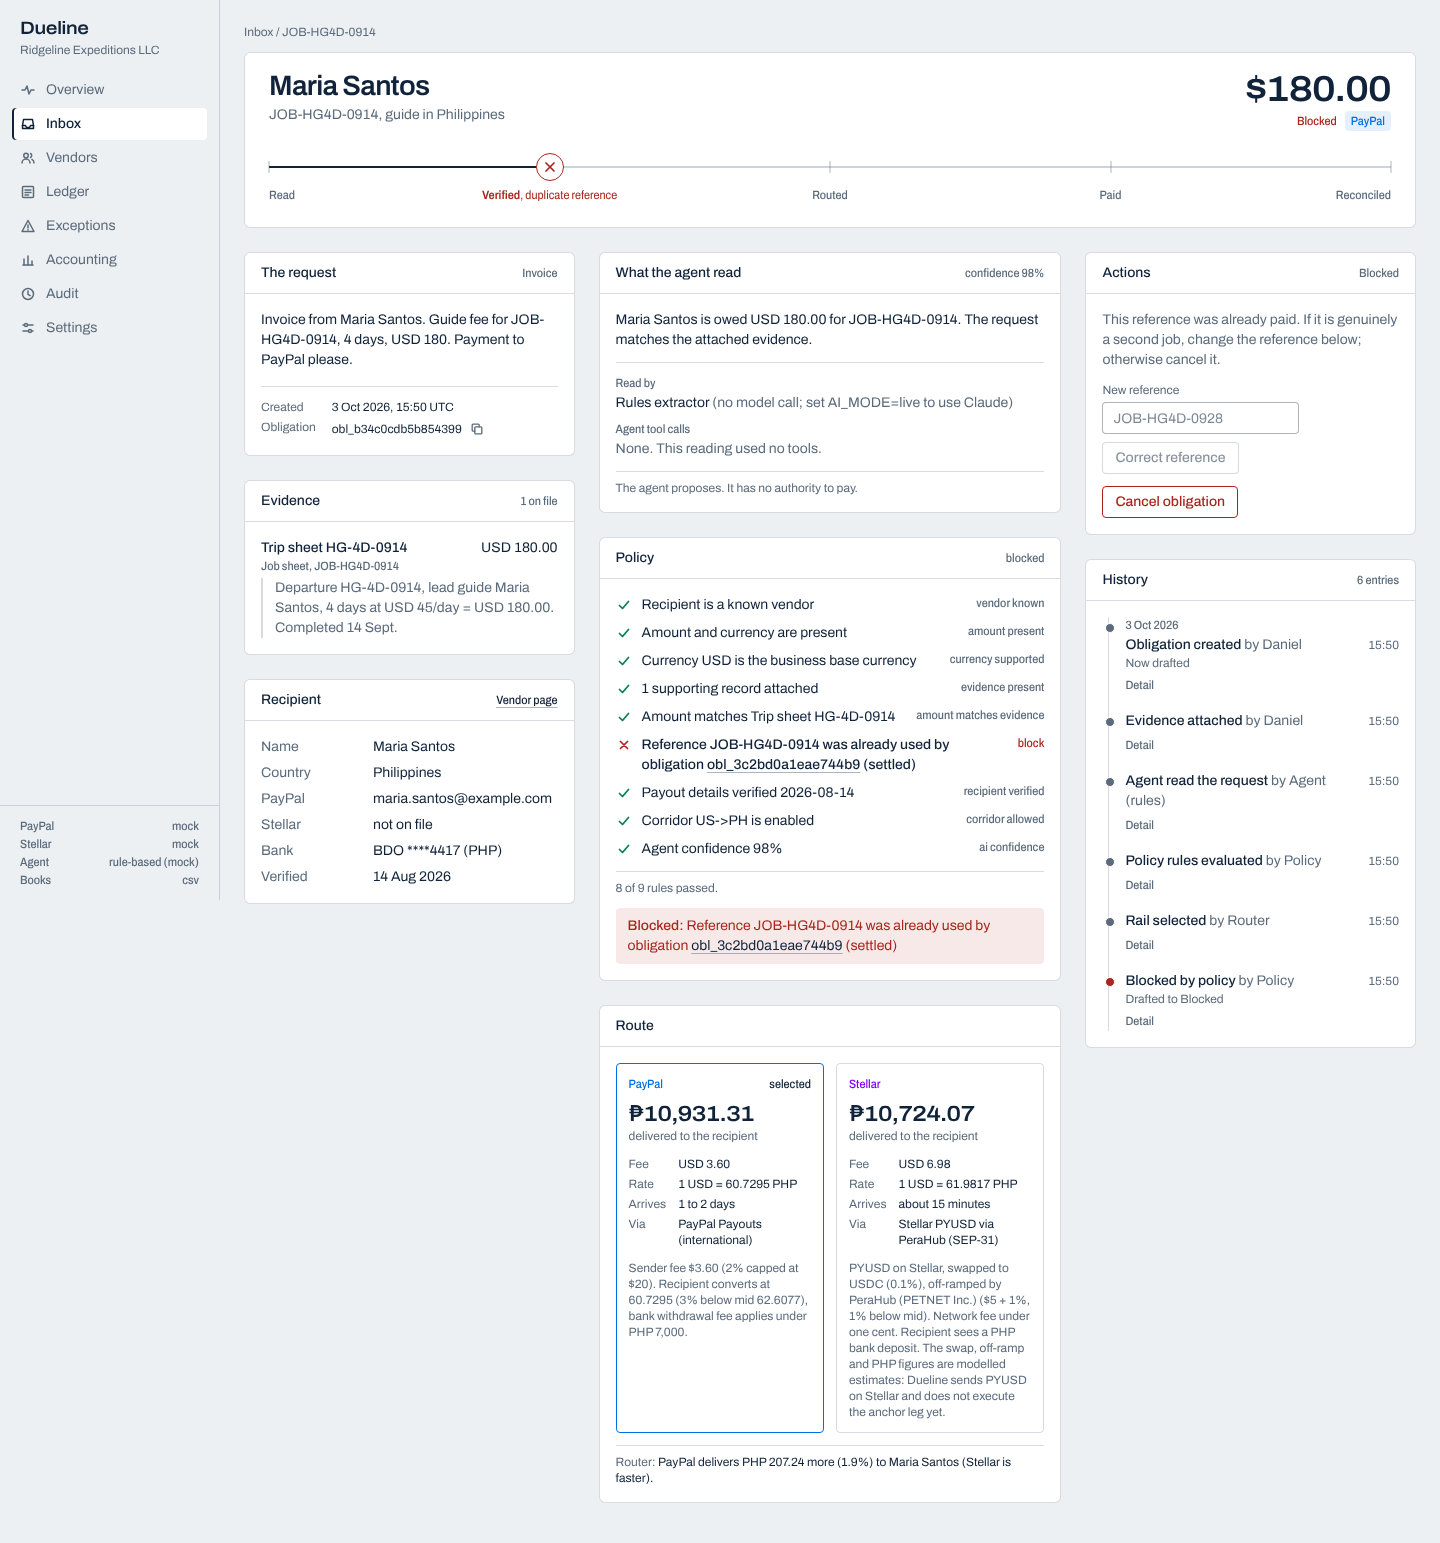
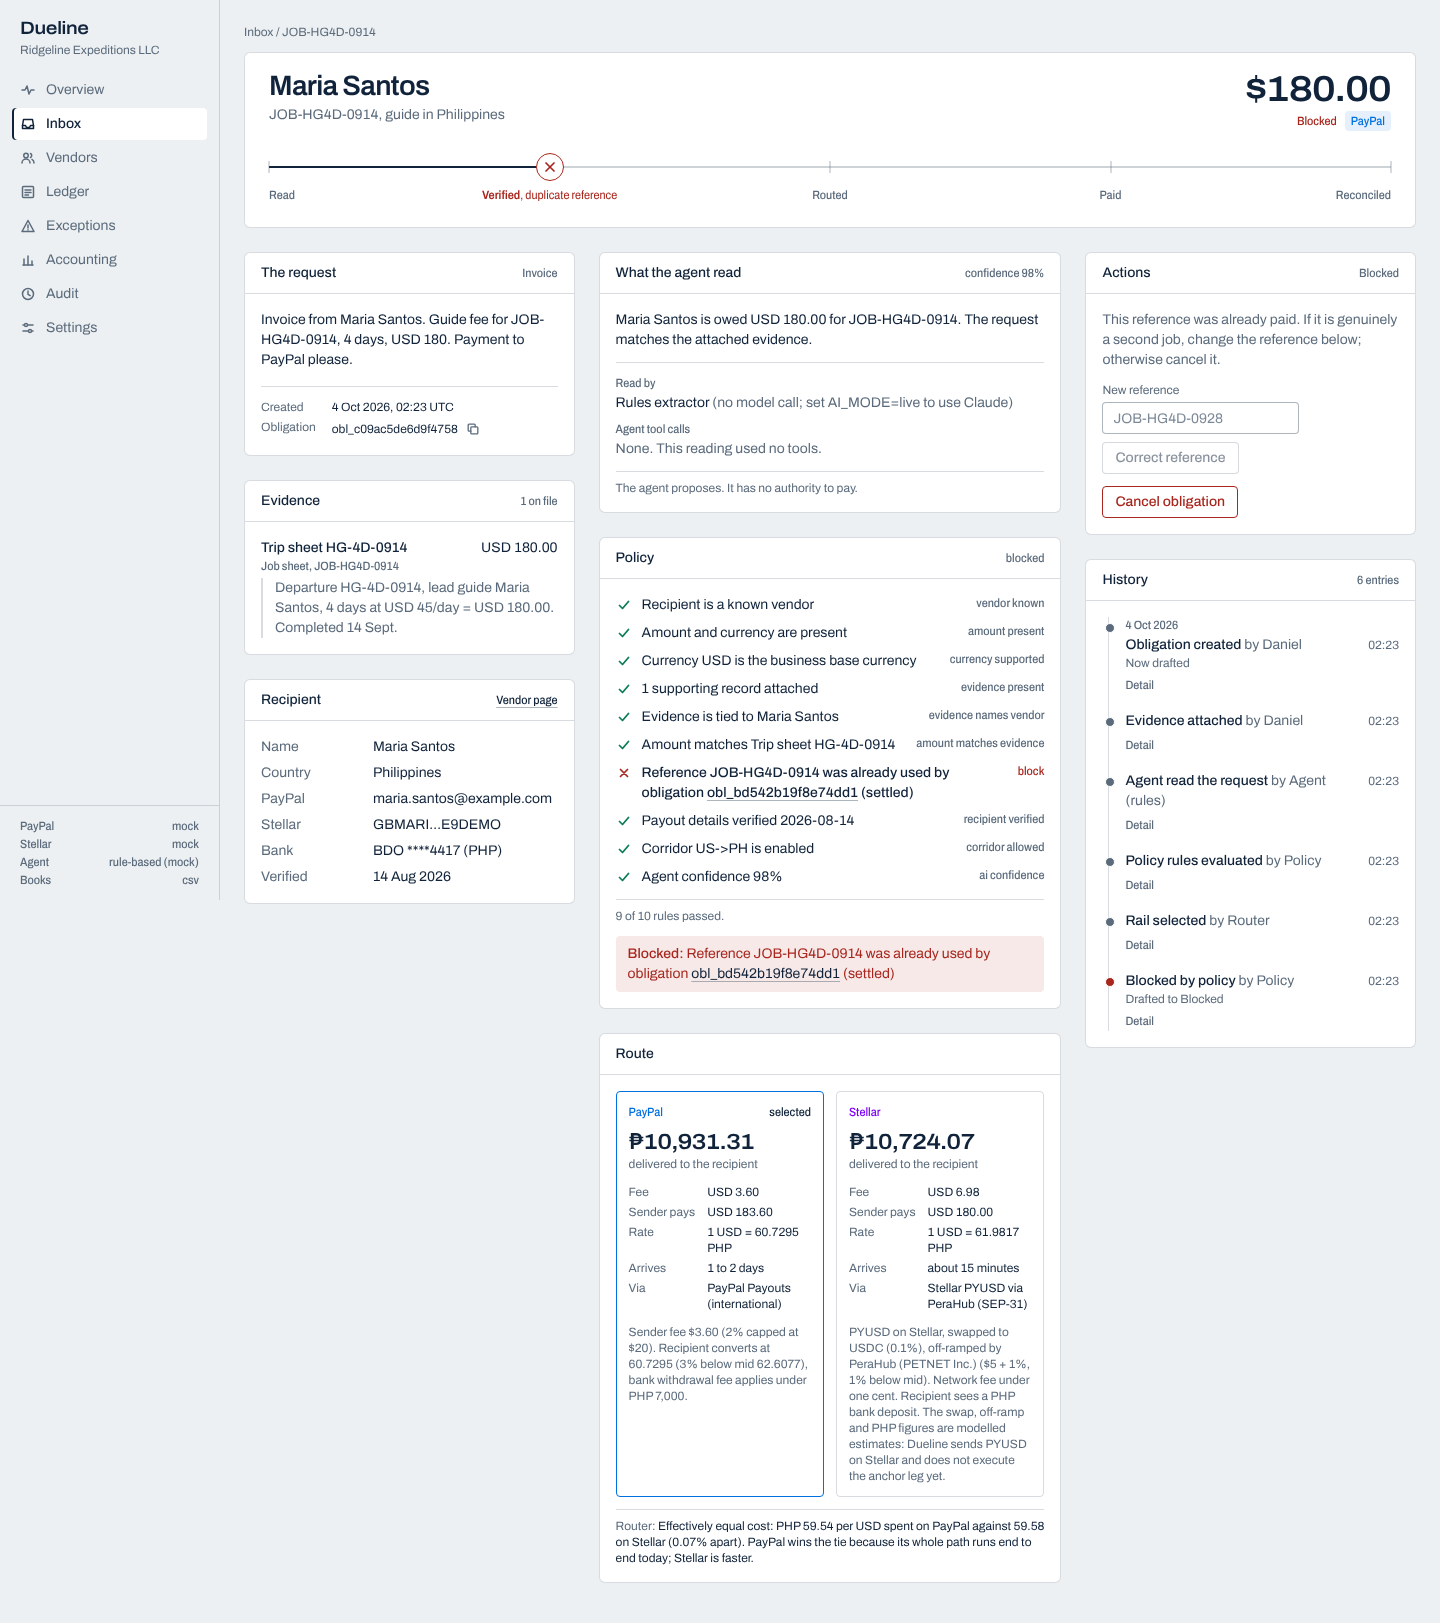
Video script opening, two cuts, Devpost and README claims aligned, screenshots regenerated, handoff updated
Claude-Session: https://claude.ai/code/session_01MTjiEbPDzj6LCPphPSyj3U

diff --git a/README.md b/README.md
@@ -2,7 +2,7 @@
 
 **Verified supplier payments, routed and reconciled automatically.**
 
-Dueline is an AI payables operations layer for small businesses that pay a distributed roster of contractors and suppliers, often across borders. It reads messy payment requests, works out who is owed what, refuses the ones that are wrong, picks the cheaper or faster rail between PayPal Payouts and Stellar PYUSD, pays, and lands every settlement in an accounting-ready export.
+Dueline is an AI payables operations layer for small businesses that pay a distributed roster of contractors and suppliers, often across borders. It reads payment requests as they arrive (a pasted message, a PDF invoice or job sheet read from its text, a photo read by Claude when a key is set), works out who is owed what, refuses the ones that are wrong, picks the cheaper or faster rail between PayPal Payouts and Stellar PYUSD, pays, and lands every settlement in an accounting-ready export.
 
 Built for the PayPal AI Hackathon (Nov 2026) and submitted to Stellar Community Fund #46.
 
@@ -22,7 +22,7 @@ Dueline puts five fixed stations between "someone says we owe this" and "it is i
 
 ## Honest status
 
-Everything runs end to end in mock mode, and that is what the demo and the tests exercise. The policy engine, state machine, routing rule, orchestrator and accounting export are proven by 130 tests and a deterministic replay. The PayPal Payouts adapter, the Stellar PYUSD adapter and the Claude agent with PayPal Agent Toolkit tools are written against the real SDKs and type-checked, but have not yet made a live call: the build environment had no network egress. By default the "agent" is a rule-based extractor, not Claude. Duplicate detection runs against Dueline's own ledger, not PayPal's history. Details in "Honesty" below, and the steps to go live are in `HUMAN_ACTION_QUEUE.md`.
+Everything runs end to end in mock mode, and that is what the demo and the tests exercise. The policy engine, state machine, routing rule, orchestrator and accounting export are proven by 142 tests and a deterministic replay. The PayPal Payouts adapter, the Stellar PYUSD adapter and the Claude agent with PayPal Agent Toolkit tools are written against the real SDKs and type-checked, but have not yet made a live call: the build environment had no network egress. By default the "agent" is a rule-based extractor, not Claude. Duplicate detection runs against Dueline's own ledger, not PayPal's history. Details in "Honesty" below, and the steps to go live are in `HUMAN_ACTION_QUEUE.md`.
 
 ## The demo story
 
@@ -31,7 +31,7 @@ Ridgeline Expeditions LLC, a US tour operator, has four open obligations.
 | # | Obligation | What happens | Why |
 |---|---|---|---|
 | 1 | Phuong Transport, INV-2026-0152, requests USD 960 | **Blocked** | The trip sheet says 4 vehicle-days x USD 200 = USD 800. The request is USD 160 over. Operator can correct to USD 800 and it re-enters the flow. |
-| 2 | Maria Santos, JOB-HG4D-0914 | **Blocked** | The reference was settled 17 days earlier. Duplicate. |
+| 2 | Maria Santos, JOB-HG4D-0914 | **Blocked** | The reference was settled 17 days earlier. Duplicate. The check also matches trip and job identifiers inside the text and evidence, so the same job re-invoiced under a new number is blocked too, and a bare same-amount invoice is held for a person. |
 | 3 | Maria Santos, JOB-HG4D-0921, USD 180 | **Auto-approved, paid via PayPal** | Under the USD 250 auto-execute threshold, evidence matches. At this size the two rails are within 0.1% per dollar spent (PHP 59.54 vs 59.58), so the tie goes to PayPal. |
 | 4 | Ana Reyes, JOB-PAL3D-0927, USD 750 | **Needs approval, paid via Stellar** | Above threshold, so a human approves. Stellar delivers about 2% more PHP per dollar spent and settles in about 15 minutes instead of 1 to 2 days. Ana asked for the faster rail. Explorer link in the settlement details. |
 
@@ -156,7 +156,7 @@ The build environment for this submission could not reach PayPal sandbox or Stel
     npm run lint
     npm run build
 
-130 tests in 10 files pass as of this commit. The story test (`src/lib/engine/story.test.ts`) runs the full demo through the orchestrator in mock mode and asserts each outcome.
+142 tests in 13 files pass as of this commit. The story test (`src/lib/engine/story.test.ts`) runs the full demo through the orchestrator in mock mode and asserts each outcome.
 
 ## Project layout
 
@@ -177,7 +177,7 @@ The build environment for this submission could not reach PayPal sandbox or Stel
 
 **What is mock.** Both rail adapters in `RAIL_MODE=mock`. The PayPal batch ids and Stellar hashes in the replay are generated locally. Fee and FX figures come from a published-fee model (`src/lib/rails/quoteModel.ts`, sourced in `docs/CORRIDOR_BENCHMARK.md`), not from live quotes. The AI in `AI_MODE=mock` is a rule-based extractor, not Claude. The Xero adapter maps records but does not push; OAuth is not wired. The Stellar anchor leg (SEP-31 to PeraHub) is modelled, not integrated; on testnet the Stellar adapter pays PYUSD to the vendor's wallet directly.
 
-**What is proven.** The policy engine, state machine, routing rule, orchestrator and accounting export, by tests and by the deterministic replay. The PayPal adapter builds a correct Payouts request with idempotency headers and the webhook receiver verifies signatures in live mode (both type-checked, not yet run against sandbox). The Stellar adapter builds, signs and submits a PYUSD payment with a memo-based idempotency check (type-checked, not yet run against testnet). The Claude agent loop with PayPal Agent Toolkit tools filtered to read-only (type-checked, not yet run against the API).
+**What is proven.** The policy engine, state machine, routing rule, orchestrator, document reader (PDF text layer) and accounting export, by tests and by the deterministic replay. The PayPal adapter builds a correct Payouts request with idempotency headers and the webhook receiver verifies signatures in live mode (both type-checked, not yet run against sandbox). The Stellar adapter builds, signs and submits a PYUSD payment with a memo-based idempotency check (type-checked, not yet run against testnet). The Claude agent loop with PayPal Agent Toolkit tools filtered to read-only (type-checked, not yet run against the API).
 
 **Safety review.** The money path (orchestrator, both rail adapters, webhook, policy) went through a line-by-line audit before any live credential was allowed near it. It found real problems, among them a retry that could mint a fresh idempotency key after an ambiguous failure, an unvalidated amend patch, and a silent fall-back to mock rails in live mode. All are fixed and covered by tests (`src/lib/engine/safety.test.ts` and the rail tests): ambiguous outcomes now stay "unknown" and block a second payment until reconciled, state changes are compare-and-swap inside a transaction, approvers are counted by distinct person, payout destinations are pinned at approval, and live mode fails closed. Known gaps: no fee-bump handling, no SEP-29 memo or trustline pre-check, no role-based access control, the anchor leg is not built, and the agent shares a PayPal app with Payouts scope (use a separate read-only app).
 

diff --git a/docs/VIDEO_SCRIPT.md b/docs/VIDEO_SCRIPT.md
@@ -8,10 +8,10 @@ Pace: speak plainly, one idea per sentence. No music under the voiceover; a quie
 
 | Time | On screen | Action | Voiceover |
 |---|---|---|---|
-| 0:00 to 0:08 | Black card, then the Dueline wordmark fades to the Overview page | None | Small businesses that pay guides, drivers and suppliers across borders check every request by hand, pay from a PayPal tab, and still pay duplicates and inflated invoices. |
-| 0:08 to 0:18 | Overview `/`. Cursor rests on the shared due line hero. | Slowly move the cursor across the five stations | Dueline draws every payment on one line: read, verified, routed, paid, reconciled. An AI agent reads. A deterministic policy decides. The rails pay. The books fill themselves. The agent is Claude when an API key is set and a rules extractor otherwise; the footer shows which is running. Four obligations are open this morning. |
+| 0:00 to 0:08 | Full-screen crop of the Phuong chat message on the obligation page: "Hey can you pay Phuong Transport INV-2026-0152 today? ... total $960. He needs it urgently." | None, hold the crop | "Pay Phuong nine sixty today, he needs it for fuel." I run a tour company and I get this message every week. This one is one hundred and sixty dollars wrong. |
+| 0:08 to 0:18 | Cut to Overview `/`. Cursor rests on the shared due line hero. | Slowly move the cursor across the five stations | Every payment travels one line: read, verified, routed, paid, reconciled. Claude reads the request. It cannot pay. A fixed set of rules decides, and this morning two of four requests are about to fail them. |
 | 0:18 to 0:26 | Overview, "Needs you" list | Hover the Phuong Transport row | The first one is a chat message: pay Phuong Transport nine hundred and sixty dollars, he needs it urgently. |
-| 0:26 to 0:48 | Obligation page `/obligations/<phuong>` | Click the row. Let the page sit. Point at the raw request, then the trip sheet excerpt, then the red rule row "Requested USD 960.00 but Trip sheet says USD 800.00". | The agent read the request and the two attached records. The contract says two hundred dollars a day. The trip sheet says four days. Policy compared the request to the evidence and blocked it: one hundred and sixty dollars over. The line is broken at verified, and it says why. |
+| 0:26 to 0:48 | Obligation page `/obligations/<phuong>` | Click the row. Let the page sit. Point at the raw request, then the trip sheet excerpt, then the "Agent tool calls" list, then the red rule row "Requested USD 960.00 but Trip sheet says USD 800.00". | Claude read the request and the two attached records, and it shows its work: the tools it called are listed on the page. The contract says two hundred dollars a day. The trip sheet says four days. Policy compared the request to the evidence and blocked it: one hundred and sixty dollars over. The line is broken at verified, and it says why. |
 | 0:48 to 0:56 | Same page, action panel | Hover "Correct to USD 800.00", do not click | The operator can correct it to eight hundred and it re-enters the flow. Nothing left the account. |
 | 0:56 to 1:04 | Back to Overview, then click the Exceptions link in the hero break, land on `/exceptions` | Click | The second one looks fine. Maria Santos, a job sheet, the right amount. |
 | 1:04 to 1:20 | Obligation page `/obligations/<maria 0914>` | Click the JOB-HG4D-0914 row. Point at the "Reference JOB-HG4D-0914 was already used" rule row, then at the linked settled obligation | Except that reference was already settled seventeen days ago in Dueline's own ledger. Policy found the duplicate and blocked it. Two errors caught, three hundred and forty dollars kept. |
@@ -21,7 +21,16 @@ Pace: speak plainly, one idea per sentence. No music under the voiceover; a quie
 | 2:24 to 2:36 | `/audit` | Scroll slowly | Every step is in one audit log: what the agent read, which rule fired, who approved, which rail paid, with the idempotency key. The agent never had spending authority. Policy is a pure function. Execution re-runs it before touching a rail. |
 | 2:36 to 2:45 | Overview `/`, the due line with two dots at reconciled and two breaks. Hold. Fade to the wordmark and one line of text. | Hold on the hero, then cut to a closing card: "2 settled. 2 errors prevented. 2 records exported." | Two settled, two errors prevented, two records exported. Dueline. Verified supplier payments, routed and reconciled automatically. |
 
-If recording in mock mode, add one sentence at 2:30: "This run is in mock mode; the sidebar shows which rails are live."
+Record in live mode (PayPal sandbox, Stellar testnet, Claude). Then there are no disclaimers to speak and the sidebar footer reads sandbox/testnet/claude on its own. If you must record in mock mode, say so once at 2:30 and nowhere else.
+
+## Two cuts from one take
+
+- **Hackathon cut (under 3:00):** as above, but trim the Ana shot (1:40 to 2:12) to about 15 seconds: approve, pay, settled, explorer link. Judges want to see PayPal and Claude; Stellar is the second rail, not the story.
+- **SCF cut:** the same footage with the full Ana shot, the explorer tab held for three seconds, and a closing line about the anchor leg being the funded work.
+
+## The 20-second insert that matters most
+
+After obligation 3 pays in live mode, switch to the PayPal sandbox dashboard and show the payout batch id that Dueline printed. Hold for three seconds. This single shot answers "has a real PayPal call ever succeeded".
 
 ## Closing card text
 

diff --git a/docs/MONDAY_HANDOFF.md b/docs/MONDAY_HANDOFF.md
@@ -7,7 +7,7 @@ Written Saturday 3 Oct 2026 night, updated through the weekend. Everything below
 Dueline, an AI payables ops layer: it reads a payment request, checks it against the evidence, blocks mistakes, routes over PayPal or Stellar PYUSD, pays, and writes an accounting record. Runs fully offline in mock mode.
 
 - Repo: local git on `main`, three commits, MIT licence. No GitHub remote exists yet (see H3), so a git bundle and a source zip were sent to you in chat.
-- 130 tests pass (policy, routing, state machine, end-to-end story, both rail adapters against fakes, webhook, auth). Typecheck, lint and production build are clean.
+- 142 tests pass (policy, routing, state machine, end-to-end story, both rail adapters against fakes, webhook, auth). Typecheck, lint and production build are clean.
 - The demo: four obligations. Phuong asks USD 960 against an USD 800 trip sheet (blocked). Maria's JOB-HG4D-0914 was already paid (blocked). Maria's USD 180 pays over PayPal. Ana's USD 750 needs approval and pays over Stellar. Result: 2 settled, 2 errors prevented (USD 340), 2 accounting records.
 - A draft captioned screen recording (2:05, mock mode) was sent in chat. Add your voice or re-record once the sandboxes are live.
 - Docs: README, Devpost text, video script, SCF application draft, Xero pitch, corridor benchmark, decision log (also in the Project).
@@ -19,6 +19,20 @@ Nothing has touched real PayPal, real Stellar or the real Claude API. The build 
 ## Scores so far
 
 An independent simulated hackathon judge scored the first build 34 out of 50 (Tech 7, Design 7, Impact 7, Innovation 7, Presentation 6) and said one real PayPal sandbox payout on camera is worth more than any polish. An independent SCF-style reviewer scored the first SCF draft 4 out of 10 (no on-chain proof, solo team, unbuilt anchor leg). Both sets of fixes that could be done offline are in.
+
+## Sunday: what changed after the critic and coach reviews
+
+Both reviews are in the Project. The headline from both: nothing has run live, and in an AI hackathon every screen says "rules extractor". Only your logins fix that. Everything they found that could be fixed offline is fixed and tested:
+
+- Duplicate detection now matches job identifiers (trip ids, invoice numbers, evidence references), so the same job re-invoiced under a new number is blocked, and a bare same-amount invoice is held for a person. The critic's probe that auto-paid is now a story test.
+- The amount extractor no longer reads "INV-K-77, USD 180" as 77 or a gross figure over "balance due", and it reads chat shorthand ("send maria 180") with an assumed-currency flag.
+- Documents can be uploaded on the new-obligation form. PDF invoices and job sheets are read from their text offline; photos and scans are read by Claude in live mode and never guessed in mock mode. Evidence read from a document is marked as such and does not trigger the operator-evidence warning, so a typed-in demo can auto-pay.
+- A new policy rule binds the agent's vendor choice to the evidence, and the README's safety claim now says precisely what holds.
+- The Stellar quote is unavailable without a wallet (the adapter cannot pay a bank until the anchor leg exists). Maria has a demo wallet so the side-by-side comparison in the demo still shows.
+- The live Stellar memo is the job reference plus key prefix, as the video says. The Xero mapping no longer double-counts the Stellar fee, and it has tests.
+- Stale copy fixed (test counts, reset message, screenshots regenerated after the routing change). Video script opens on the chat message, the configuration disclaimer is gone, and there are two cuts: hackathon and SCF.
+
+Not done from the reviews, on purpose: mainnet PYUSD before a clean testnet run (I would not put a real key on mainnet first), RBAC, Xero OAuth, the Mexico corridor, and any further polish on dark mode, mobile or the secondary pages.
 
 ## Your queue, in order
 

diff --git a/docs/SCF_APPLICATION.md b/docs/SCF_APPLICATION.md
@@ -16,7 +16,7 @@ Round and award details should be checked against https://communityfund.stellar.
 
 **Category.** Payments and financial access (B2B cross-border payables).
 
-**Stage.** Working MVP in mock mode with 130 tests and a deterministic demo. Live PayPal sandbox and Stellar testnet adapters are written against the real SDKs and have had a line-by-line safety review, but had not made a live call when this draft was written. [Before submitting: run one real Stellar testnet PYUSD payment from the dashboard and link its explorer transaction here. SEP-31 and the PYUSD to USDC path payment are the funded work.]
+**Stage.** Working MVP in mock mode with 142 tests and a deterministic demo. Live PayPal sandbox and Stellar testnet adapters are written against the real SDKs and have had a line-by-line safety review, but had not made a live call when this draft was written. [Before submitting: run one real Stellar testnet PYUSD payment from the dashboard and link its explorer transaction here. SEP-31 and the PYUSD to USDC path payment are the funded work.]
 
 **Team.** Solo founder with an operations background running a tour business in Northern Vietnam. [Add a second named contributor with Stellar anchor experience here if one is secured; see the human action queue.] Prior SCF-funded engineering experience through a separate team (Logistech Global) is relevant background, not this project's team.
 
@@ -66,7 +66,7 @@ Every external dependency has a mock mode; the demo replays deterministically of
 
 ### What is built (MVP state)
 
-Done and tested (130 tests, deterministic replay in README):
+Done and tested (142 tests, deterministic replay in README):
 - Full obligation lifecycle, policy engine, routing rule, state machine, audit log.
 - Four-obligation demo: amount mismatch blocked, duplicate blocked, PayPal auto-pay, Stellar approve-then-pay with explorer link.
 - Operator dashboard: overview, inbox, obligation detail with rule checklist and route comparison, vendors, ledger, exceptions, accounting export, audit, settings, presenter page.

diff --git a/docs/DEVPOST.md b/docs/DEVPOST.md
@@ -22,7 +22,7 @@ Dueline is an AI payables operations layer for small businesses that pay contrac
 
 Every payment request travels along one line through five stations: read, verified, routed, paid, reconciled.
 
-An agent reads the raw request and attached evidence, resolves the vendor, extracts amount and reference, and flags anomalies. It is Claude when an Anthropic API key is set and a rule-based extractor otherwise; the app shows which one read each obligation. With Claude it also gets read-only PayPal Agent Toolkit tools (list transactions, list invoices, get invoice, merchant insights). It cannot pay.
+An agent reads the raw request and the attached documents (uploaded PDFs are read from their text; photos and scans are read by Claude), resolves the vendor, extracts amount and reference, and flags anomalies. It is Claude when an Anthropic API key is set and a rule-based extractor otherwise; the app shows which one read each obligation. With Claude it also gets read-only PayPal Agent Toolkit tools (list transactions, list invoices, get invoice, merchant insights). It cannot pay.
 
 A deterministic policy engine decides. Eight rules: known vendor, amount present, evidence attached, amount within tolerance of evidence, no duplicate reference, recipient details verified, corridor allow-listed, AI confidence above threshold. Outcome: block, hold, require approval or auto-execute. Same input, same output, no model in the loop.
 
